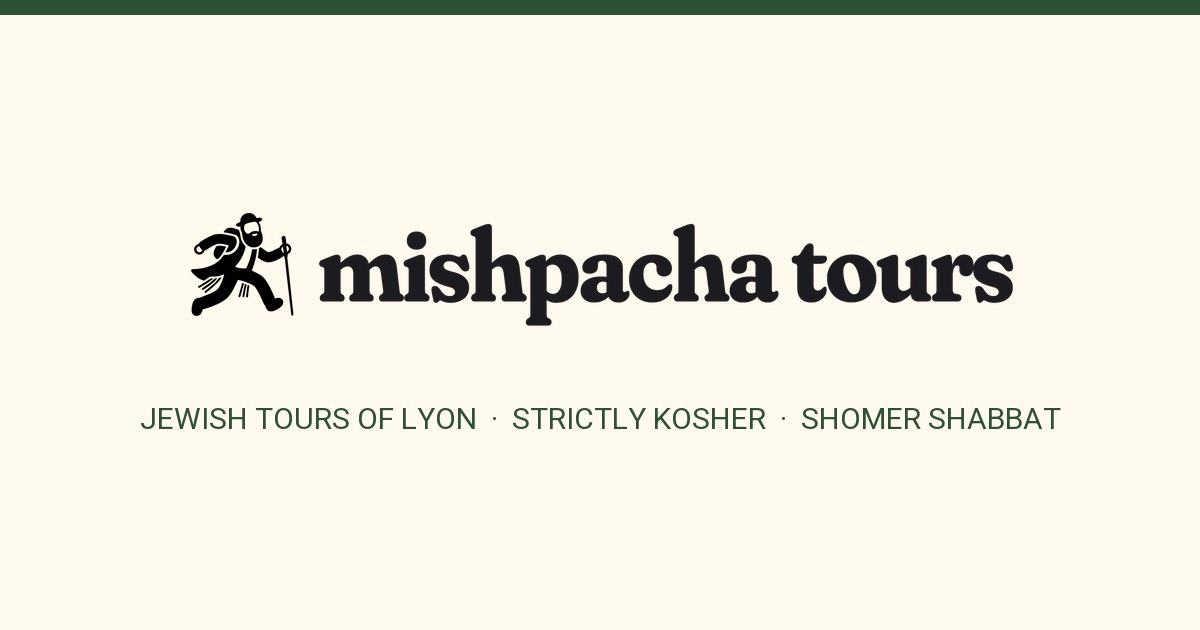
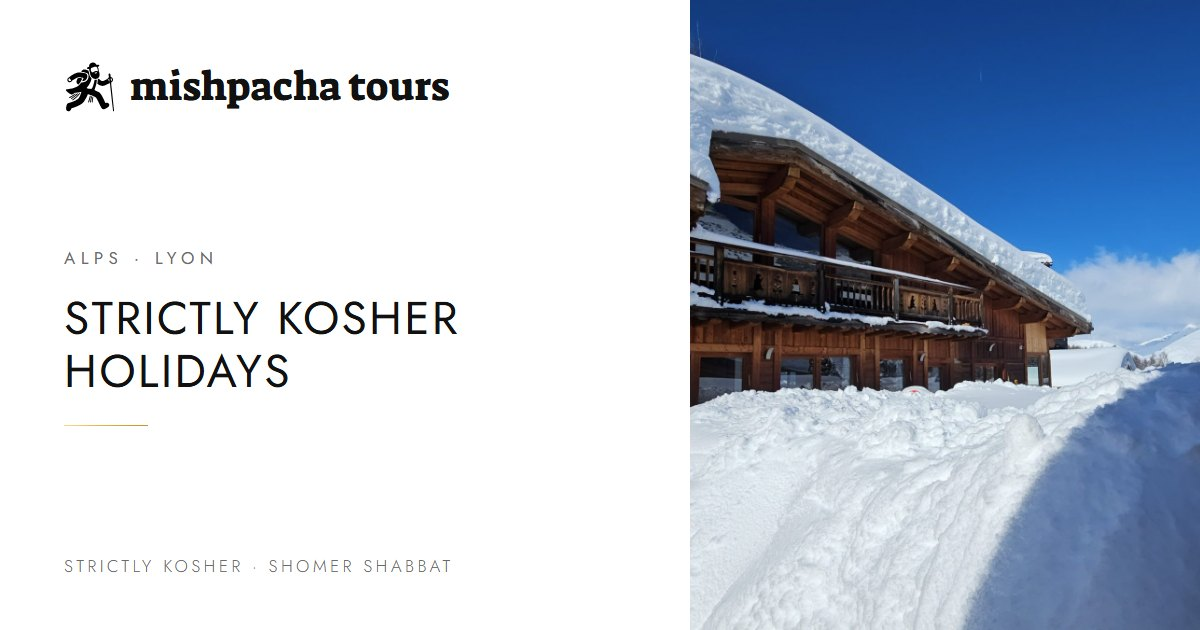
Images de partage à la charte LV (générique + 4 accueils)

diff --git a/he/index.html b/he/index.html
@@ -18,9 +18,9 @@
 <meta property="og:locale" content="he_IL">
 <meta property="og:type" content="website">
 <meta property="og:site_name" content="Mishpacha Tours">
-<meta property="og:title" content="Mishpacha Tours, חופשת סקי כשרה באלפים ובליון">
+<meta property="og:title" content="חופשת סקי כשרה באלפים ובליון">
 <meta property="og:description" content="צ'אלה עם שף כשר פרטי, שבת ומניין באתר, הסעות, ויהדות ליון בדרך. פנייה אחת, ובחזרה תוכנית מפורטת יום אחר יום.">
-<meta property="og:image" content="https://mishpachatours.com/img/og-mishpacha-tours.jpg">
+<meta property="og:image" content="https://mishpachatours.com/img/og-accueil-he.jpg">
 <meta property="og:image:width" content="1200">
 <meta property="og:image:height" content="630">
 <meta name="twitter:card" content="summary_large_image">

diff --git a/es/index.html b/es/index.html
@@ -18,9 +18,9 @@
 <meta property="og:locale" content="es_ES">
 <meta property="og:type" content="website">
 <meta property="og:site_name" content="Mishpacha Tours">
-<meta property="og:title" content="Mishpacha Tours, vacaciones estrictamente kosher en los Alpes y Lyon">
+<meta property="og:title" content="Vacaciones estrictamente kosher en los Alpes y Lyon">
 <meta property="og:description" content="Esquí kosher y chalés con chef privado en los Alpes, Shabat y minyan en la estación, traslados y el patrimonio judío de Lyon. Una solicitud, un programa día a día.">
-<meta property="og:image" content="https://mishpachatours.com/img/og-mishpacha-tours.jpg">
+<meta property="og:image" content="https://mishpachatours.com/img/og-accueil-es.jpg">
 <meta property="og:image:width" content="1200">
 <meta property="og:image:height" content="630">
 <meta name="twitter:card" content="summary_large_image">

diff --git a/fr/index.html b/fr/index.html
@@ -18,9 +18,9 @@
 <meta property="og:locale" content="fr_FR">
 <meta property="og:type" content="website">
 <meta property="og:site_name" content="Mishpacha Tours">
-<meta property="og:title" content="Mishpacha Tours, vacances strictement casher dans les Alpes et à Lyon">
+<meta property="og:title" content="Vacances strictement casher dans les Alpes et à Lyon">
 <meta property="og:description" content="Chalet avec chef casher privé, Shabbat et minyan en station, transferts, et le patrimoine juif de Lyon sur la route. Une demande, un programme jour par jour.">
-<meta property="og:image" content="https://mishpachatours.com/img/og-mishpacha-tours.jpg">
+<meta property="og:image" content="https://mishpachatours.com/img/og-accueil-fr.jpg">
 <meta property="og:image:width" content="1200">
 <meta property="og:image:height" content="630">
 <meta name="twitter:card" content="summary_large_image">

diff --git a/index.html b/index.html
@@ -19,7 +19,7 @@
 <meta property="og:site_name" content="Mishpacha Tours">
 <meta property="og:title" content="Kosher Holidays in the Alps and Lyon">
 <meta property="og:description" content="Strictly kosher holidays in the Alps: chalet, private chef, Shabbat and minyan in the resort. One WhatsApp request, a day-by-day programme in return.">
-<meta property="og:image" content="https://mishpachatours.com/img/og-mishpacha-tours.jpg">
+<meta property="og:image" content="https://mishpachatours.com/img/og-accueil-en.jpg">
 <meta property="og:image:width" content="1200">
 <meta property="og:image:height" content="630">
 <meta name="twitter:card" content="summary_large_image">

diff --git a/_og_lv.py b/_og_lv.py
@@ -1,0 +1,106 @@
+# -*- coding: utf-8 -*-
+"""Images de partage (og:image) a la charte LV (03/11/2026, demande de Moshe apres la story de Mendel qui montrait
+   encore l'ancien logo creme). Idempotent.
+
+   IMAGES (1200x630, JPEG < 180 Ko), rendues par Chromium a partir d'un gabarit HTML qui reprend la charte LV :
+   blanc dominant, lockup (picto hassid + mot-marque Suez One), titre en Jost capitales, un filet d'or, baseline grise,
+   photo reelle du chalet King David (wp-ext-bleu.jpg) en pleine hauteur a droite (a gauche en hebreu). Aucun cadre, aucun arrondi.
+     img/og-mishpacha-tours.jpg        : image generique (170 pages : Lyon, services, legales...), texte sans langue
+     img/og-accueil-<en|fr|es|he>.jpg  : accueil de chaque langue, titre dans la langue
+   PAGES : les 4 accueils pointent sur leur image ; leur og:title perd le prefixe « Mishpacha Tours, » (deja dans og:site_name,
+   le titre etait coupe sur telephone). Les pages Alpes gardent leur image Winter Prestige (_og_wp.py).
+   Python systeme : python _og_lv.py [--apercu]  (--apercu : ecrit seulement dans _og_lv_apercu/, ne touche a rien)"""
+import io, os, re, sys, tempfile
+from PIL import Image
+
+ROOT = os.path.dirname(os.path.abspath(__file__))
+BASE = "https://mishpachatours.com"
+PHOTO = os.path.join(ROOT, "img", "chalet", "wp-ext-bleu.jpg")
+W, H = 1200, 630
+
+TEXTES = {
+    # lang : (kicker, titre, baseline)
+    None: ("ALPS · LYON", "Strictly kosher<br>holidays", "Strictly kosher · Shomer Shabbat"),
+    "en": ("ALPS · LYON", "Strictly kosher<br>holidays", "Strictly kosher · Shomer Shabbat"),
+    "fr": ("ALPES · LYON", "Vacances<br>strictement casher", "Strictement casher · Shomer Shabbat"),
+    "es": ("ALPES · LYON", "Vacaciones kosher<br>en los Alpes", "Estrictamente kosher · Shomer Shabat"),
+    "he": ("האלפים · ליון", "חופשת סקי<br>כשרה באלפים", "שומר כשרות · שומר שבת"),
+}
+
+GABARIT = """<!doctype html><html lang="{lang}" dir="{dir}"><head><meta charset="utf-8">
+<link rel="preconnect" href="https://fonts.gstatic.com" crossorigin>
+<link rel="stylesheet" href="https://fonts.googleapis.com/css2?family=Jost:wght@300;400;500&family=Suez+One&family=Heebo:wght@300;400&display=block">
+<style>
+*{{margin:0;padding:0;box-sizing:border-box}}
+html,body{{width:{W}px;height:{H}px;overflow:hidden;background:#fff}}
+body{{display:flex;font-family:'Jost','Heebo',sans-serif;color:#111}}
+.panneau{{width:690px;height:100%;padding:56px 64px 52px;display:flex;flex-direction:column;justify-content:space-between;background:#fff}}
+.photo{{flex:1;height:100%;background:url('file:///{photo}') center 45%/cover no-repeat}}
+.logo{{display:flex;align-items:center;gap:14px}}
+.logo img{{width:52px;height:62px;display:block}}
+.logo .mot{{font-family:'Suez One',serif;font-size:40px;line-height:1;color:#111;white-space:nowrap}}
+.kicker{{font-weight:400;font-size:17px;letter-spacing:.32em;color:#6B6B6B;text-transform:uppercase}}
+h1{{font-family:'Jost','Heebo',sans-serif;font-weight:400;font-size:46px;line-height:1.14;letter-spacing:.05em;text-transform:uppercase;margin:22px 0 28px}}
+.filet{{width:84px;height:1px;background:linear-gradient(90deg,#F6DC8C 0%,#E2B44A 45%,#C8902A 100%)}}
+.base{{font-weight:300;font-size:17px;letter-spacing:.2em;text-transform:uppercase;color:#6B6B6B}}
+[dir=rtl] .kicker{{letter-spacing:.12em}}
+[dir=rtl] h1{{font-family:'Heebo',sans-serif;font-weight:300;letter-spacing:0;font-size:56px}}
+[dir=rtl] .base{{letter-spacing:.06em;font-weight:400}}
+</style></head><body>
+<div class="panneau">
+  <div class="logo"><img src="file:///{picto}" alt=""><span class="mot">mishpacha tours</span></div>
+  <div><div class="kicker">{kicker}</div><h1>{titre}</h1><div class="filet"></div></div>
+  <div class="base">{base}</div>
+</div>
+<div class="photo"></div>
+</body></html>"""
+
+
+def rendre(pg, lang, dest):
+    kicker, titre, base = TEXTES[lang]
+    html = GABARIT.format(W=W, H=H, lang=lang or "en", dir="rtl" if lang == "he" else "ltr",
+                          photo=PHOTO.replace("\\", "/"), picto=os.path.join(ROOT, "img", "picto-hassid.svg").replace("\\", "/"),
+                          kicker=kicker, titre=titre, base=base)
+    tmp = os.path.join(ROOT, "_og_lv_tmp.html"); open(tmp, "w", encoding="utf-8").write(html)
+    pg.goto("file:///" + tmp.replace("\\", "/"), wait_until="networkidle")
+    pg.evaluate("async () => { await document.fonts.ready; }")
+    pg.wait_for_function("document.fonts.check('40px \"Suez One\"') && document.fonts.check('52px Jost')", timeout=20000)
+    pg.wait_for_timeout(300)
+    png = pg.screenshot(type="png")
+    im = Image.open(io.BytesIO(png)).convert("RGB")
+    for q in (86, 82, 78, 74, 70):
+        buf = io.BytesIO(); im.save(buf, "JPEG", quality=q, optimize=True, progressive=True)
+        if buf.tell() < 179000 or q == 70: break
+    with open(dest, "wb") as f: f.write(buf.getvalue())
+    return buf.tell()
+
+
+def pages_accueil(lang):
+    return os.path.join(ROOT, "index.html") if lang == "en" else os.path.join(ROOT, lang, "index.html")
+
+
+def main():
+    apercu = "--apercu" in sys.argv
+    out = os.path.join(ROOT, "_og_lv_apercu") if apercu else os.path.join(ROOT, "img")
+    os.makedirs(out, exist_ok=True)
+    from playwright.sync_api import sync_playwright
+    with sync_playwright() as p:
+        b = p.chromium.launch(); pg = b.new_page(viewport={"width": W, "height": H}, device_scale_factor=1)
+        n = rendre(pg, None, os.path.join(out, "og-mishpacha-tours.jpg")); print("og-mishpacha-tours.jpg", n, "octets")
+        for lang in ("en", "fr", "es", "he"):
+            n = rendre(pg, lang, os.path.join(out, f"og-accueil-{lang}.jpg")); print(f"og-accueil-{lang}.jpg", n, "octets")
+        b.close()
+    tmp = os.path.join(ROOT, "_og_lv_tmp.html")
+    if os.path.exists(tmp): os.remove(tmp)
+    if apercu: print("apercu seulement, pages non modifiees :", out); return
+    modif = 0
+    for lang in ("en", "fr", "es", "he"):
+        f = pages_accueil(lang); h = open(f, encoding="utf-8").read()
+        url = f"{BASE}/img/og-accueil-{lang}.jpg"
+        n = re.sub(r'(<meta (?:property="og:image"|name="twitter:image") content=")[^"]*(")', lambda m: m.group(1) + url + m.group(2), h)
+        n = re.sub(r'(<meta property="og:title" content=")Mishpacha Tours, ([^"]*")', lambda m: m.group(1) + m.group(2)[0].upper() + m.group(2)[1:], n)
+        if n != h: open(f, "w", encoding="utf-8", newline="").write(n); modif += 1
+    print("accueils modifies :", modif)
+
+
+if __name__ == "__main__": main()
